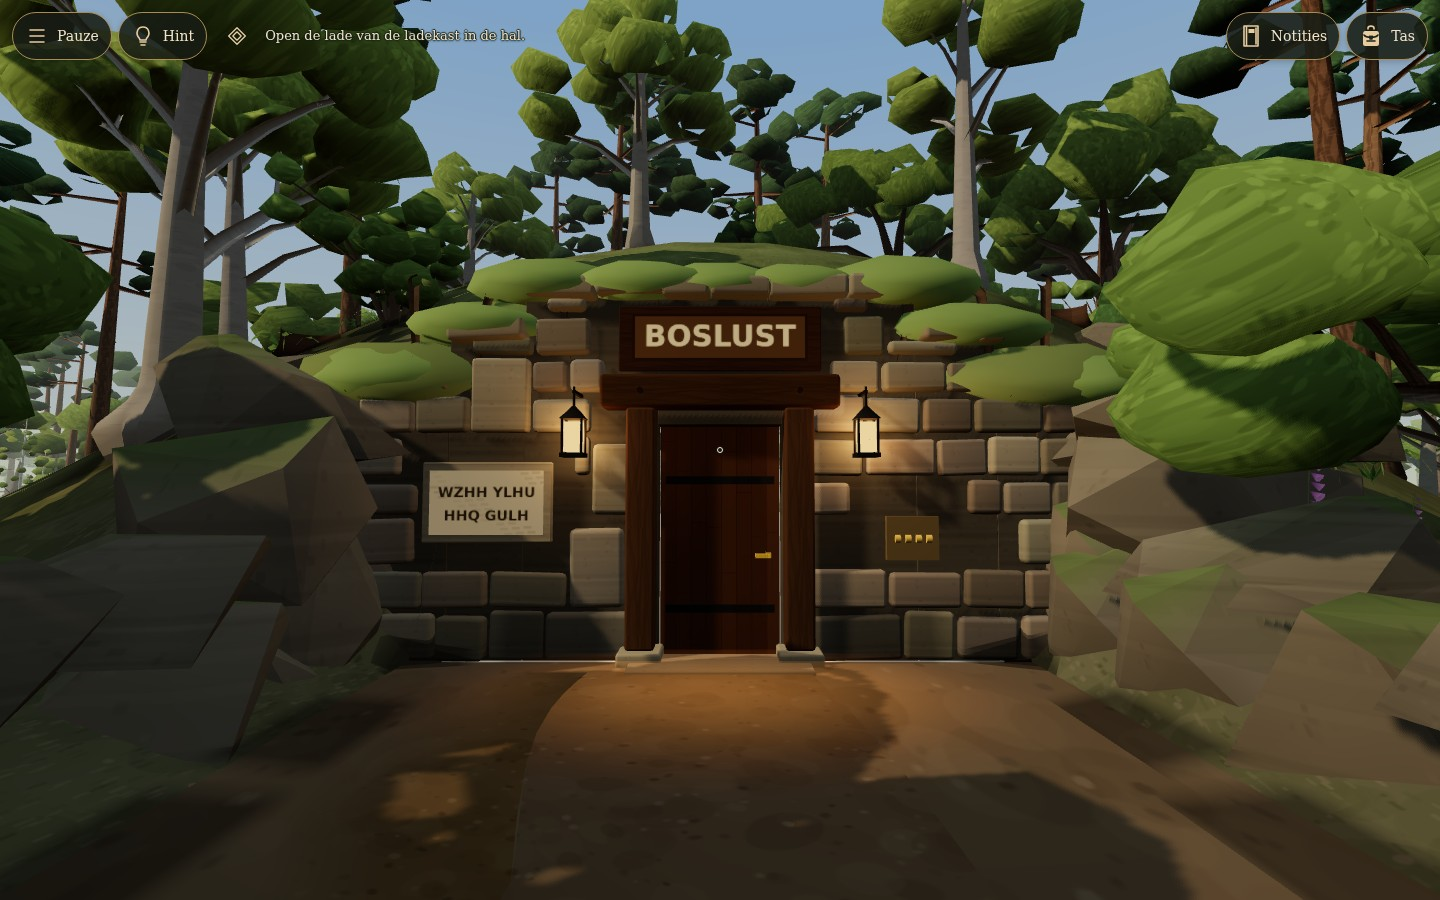
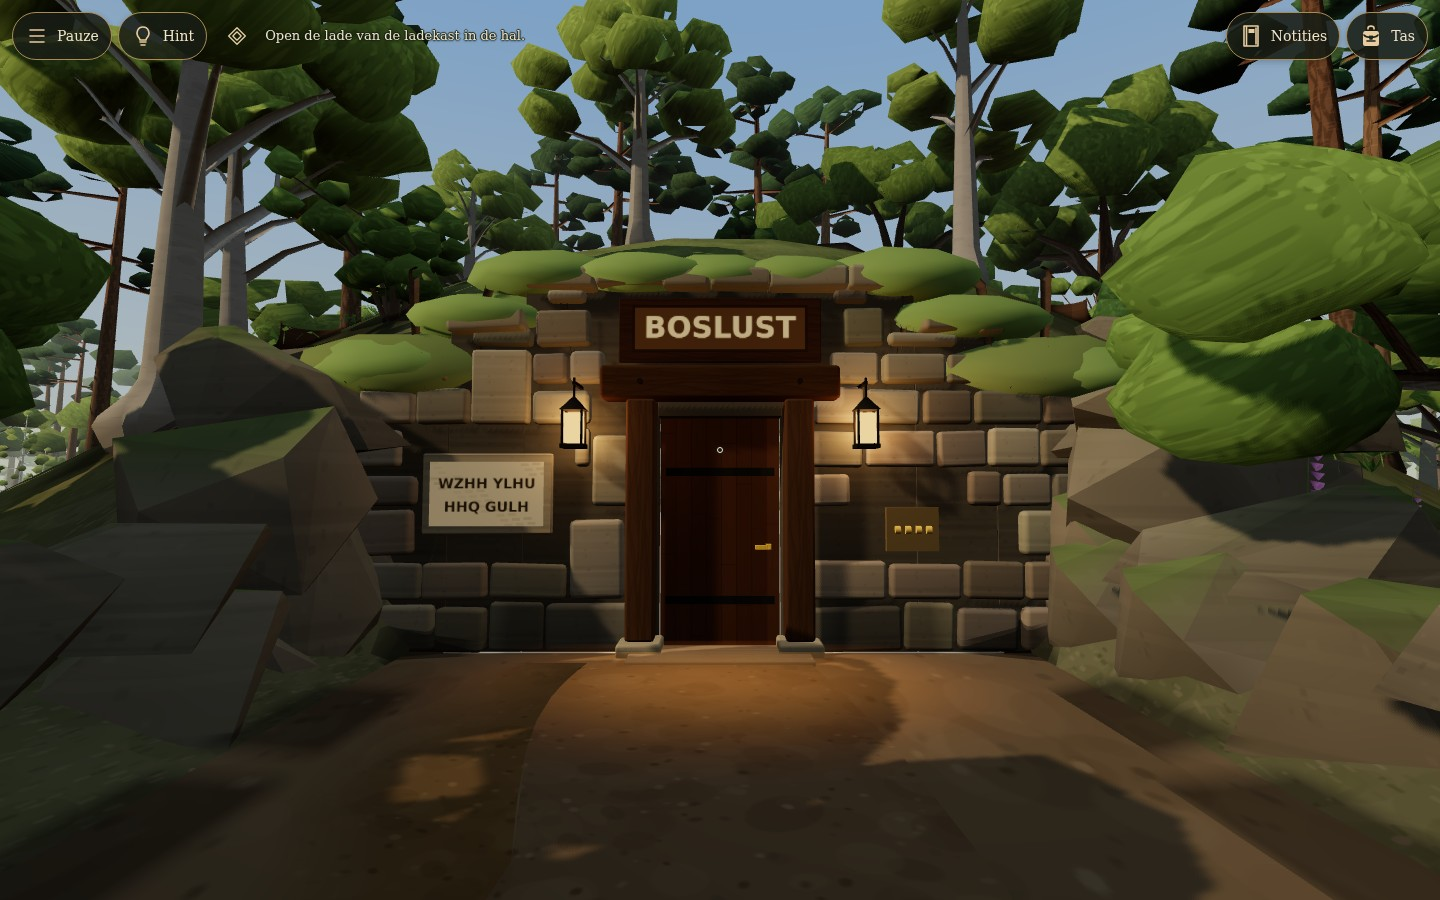
docs: use normal-render captures for visual review

diff --git a/docs/ui-r02/UI-R02_MOBILE_FEEDBACK.md b/docs/ui-r02/UI-R02_MOBILE_FEEDBACK.md
@@ -50,7 +50,7 @@ The grouping/action proposal is game-specific design judgment. Microsoft XAG 114
 
 FLW-PDI-01 was read from its existing project source. The copy is marked proposed/draft, not automatically active; task-specific approval and isolation rules remain authoritative.
 
-Validation: TypeScript, build and **267 unit tests passed**. The focused HUD/navigation suite passed **44/44 checks** across 852 × 393, 640 × 360, 393 × 852 touch and 1440 × 900 desktop. Native pointer actions, focus/escape, target sizes, overflow, records, item selection and memory-tab activation were checked. It loads the real game, then stops the animation loop and renders the actual world once per viewport to limit redundant software-GPU work. This is UI validation, not a new gameplay walkthrough or speed benchmark. The packing probe supplies five real labels with fixture status bits only to the UI; it does not alter game progression and is excluded from the delivered gallery.
+Validation: TypeScript, build and **267 unit tests passed**. The focused HUD/navigation suite passed **44/44 checks** across 852 × 393, 640 × 360, 393 × 852 touch and 1440 × 900 desktop. Native pointer actions, focus/escape, target sizes, overflow, records, item selection and memory-tab activation were checked. It loads the real game, then stops the animation loop for DOM/input checks to limit redundant software-GPU work. WebGL backgrounds can clear in that mode; those UI-only snapshots are excluded from visual evidence. This is UI validation, not a new gameplay walkthrough or speed benchmark. The packing probe supplies five real labels with fixture status bits only to the UI; it does not alter game progression and is excluded from the delivered gallery.
 
 The wider normal-render UI attempt passed **105/107** executed checks; desktop and portrait memory-tab operations timed out. The exact cause is unproven. The same native memory-tab actions pass when background rendering is stopped, suggesting a timing/resource factor rather than demonstrating a production regression. Full normal-render regression completion and physical-device review remain open. No assertions or timeout criteria were weakened. Earlier overlapping runner output was discarded; the reported runs use separate directories.
 
@@ -66,6 +66,6 @@ Reproduce focused checks: `E2E_OUT=scripts/out/ui-r02-feedback-focused node scri
 
 ![On-demand reading panel](evidence/feedback/portrait-objective.jpg)
 
-[Smaller landscape](evidence/feedback/small-exploration.jpg) · [Desktop](evidence/feedback/desktop-exploration.jpg) · [Dark BOSLUST](evidence/feedback/phone-boslust-dark.jpg) · [Bright garden](evidence/feedback/phone-garden-bright.jpg). All seven JPGs are unedited browser captures of the actual WebGL world and DOM interface. The first five use the focused rendering fixture; the contrast pair uses the normal-render wider run.
+[Smaller landscape](evidence/feedback/small-exploration.jpg) · [Desktop](evidence/feedback/desktop-exploration.jpg) · [Dark BOSLUST](evidence/feedback/phone-boslust-dark.jpg) · [Bright garden](evidence/feedback/phone-garden-bright.jpg). All seven JPGs are unedited browser captures of the actual WebGL world and DOM interface. All seven gallery images come from the normal-render wider run. The focused run's UI-only snapshots can have cleared WebGL backgrounds and are not used as visual evidence.
 
 Inventory and speed changes await a design decision. This follow-up remains draft for visual review; no merge or deployment is included.
